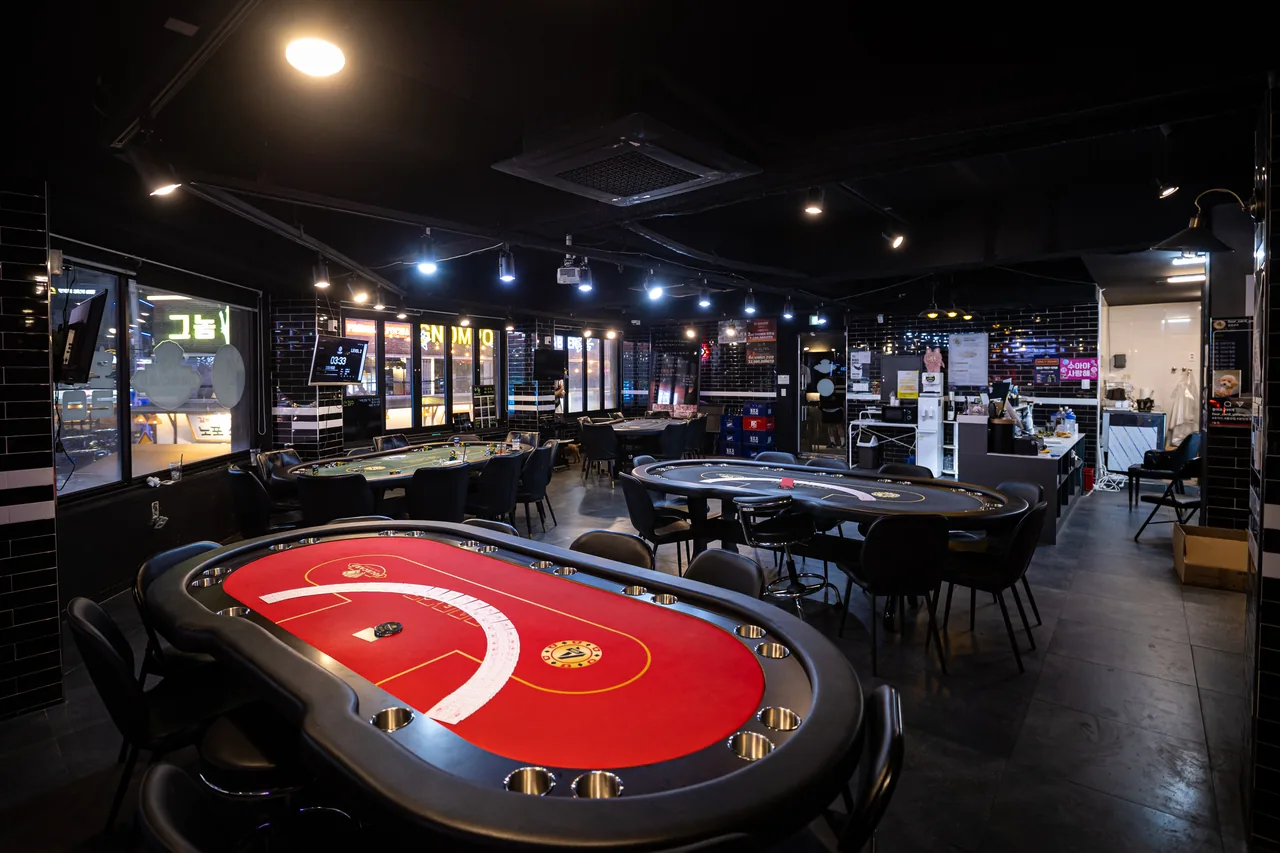
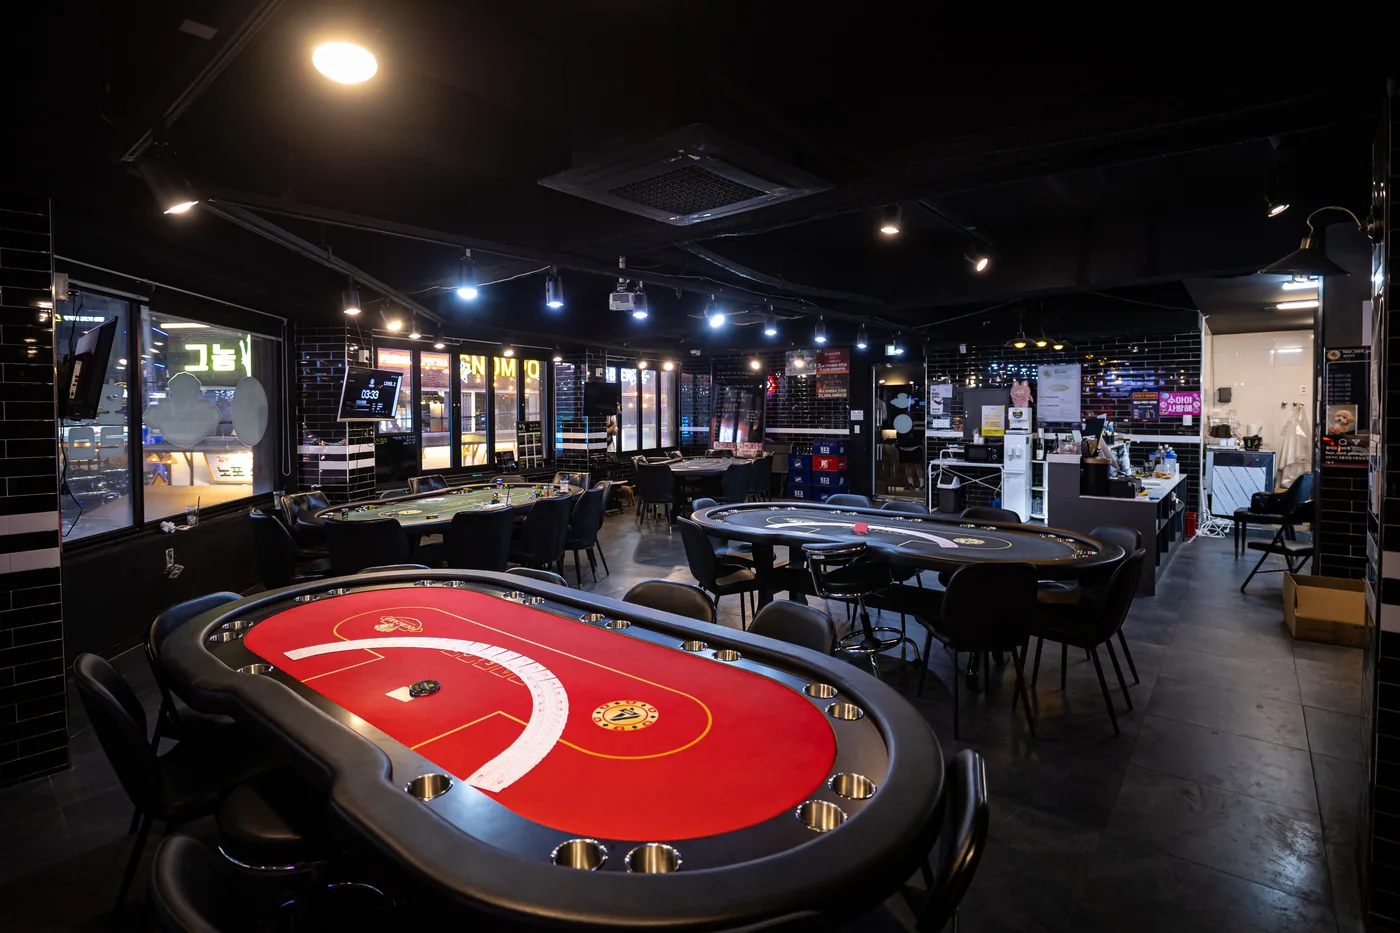
Optimize remaining content images with WebP and light JPEG fallbacks.

Changed region(s): [[0.3438, 0.5182, 0.375, 0.5487]]

diff --git a/index.html b/index.html
@@ -1682,7 +1682,7 @@
                 <div class="reveal">
                     <picture>
                         <source srcset="image/optimized/02.webp" type="image/webp">
-                        <img src="image/02.jpg" alt="포카드 홀덤펍 내부" class="w-full shadow-lg" loading="lazy" decoding="async">
+                        <img src="image/optimized/02.jpg" alt="포카드 홀덤펍 내부" class="w-full shadow-lg" loading="lazy" decoding="async">
                     </picture>
                 </div>
             </div>
@@ -1775,7 +1775,7 @@
                 <picture>
                     <source srcset="image/optimized/03.webp" type="image/webp">
                     <img
-                        src="image/03.jpg"
+                        src="image/optimized/03.jpg"
                         alt="포카드 홀덤펍 플레이"
                         class="brand-visual brand-visual-banner w-full"
                         loading="lazy"
@@ -1829,12 +1829,16 @@
             <div class="reveal competition-intro text-white p-8 md:p-12 mb-10 md:mb-12 shadow-lg overflow-hidden">
                 <div class="grid md:grid-cols-[1fr_1.2fr_0.9fr] gap-8 md:gap-10 items-center">
                     <div class="rounded-xl overflow-hidden border border-white/20 shadow-lg max-h-56 md:max-h-none">
-                        <img
-                            src="image/04.jpg"
-                            alt="토너먼트 대회 현장"
-                            class="brand-visual w-full h-full min-h-[200px] object-cover"
-                            loading="lazy"
-                        >
+                        <picture>
+                            <source srcset="image/optimized/04.webp" type="image/webp">
+                            <img
+                                src="image/optimized/04.jpg"
+                                alt="토너먼트 대회 현장"
+                                class="brand-visual w-full h-full min-h-[200px] object-cover"
+                                loading="lazy"
+                                decoding="async"
+                            >
+                        </picture>
                     </div>
                     <div>
                         <p class="section-eyebrow section-eyebrow--responsive section-eyebrow--gold font-semibold tracking-widest mb-3">METIS · 정기 페이아웃 대회</p>

diff --git a/scripts/optimize_images.py b/scripts/optimize_images.py
@@ -15,7 +15,15 @@ OPTIMIZED_DIR = IMAGE_DIR / "optimized"
 
 THUMB_WIDTH = 480
 DISPLAY_WIDTH = 1400
-CONTENT_WIDTH = 1280
+CONTENT_WIDTH = 1400
+JPEG_QUALITY = 85
+WEBP_QUALITY = 82
+
+
+def save_jpeg(img: Image.Image, path: Path, quality: int = JPEG_QUALITY) -> None:
+    path.parent.mkdir(parents=True, exist_ok=True)
+    rgb = img.convert("RGB") if img.mode not in ("RGB", "L") else img
+    rgb.save(path, "JPEG", quality=quality, optimize=True, progressive=True)
 
 
 def save_webp(img: Image.Image, path: Path, quality: int) -> None:
@@ -36,7 +44,7 @@ def optimize_gallery() -> None:
         img = Image.open(path)
         base = path.stem
         save_webp(resize_to_width(img, THUMB_WIDTH), THUMB_DIR / f"{base}.webp", 78)
-        save_webp(resize_to_width(img, DISPLAY_WIDTH), DISPLAY_DIR / f"{base}.webp", 82)
+        save_webp(resize_to_width(img, DISPLAY_WIDTH), DISPLAY_DIR / f"{base}.webp", WEBP_QUALITY)
         thumb_kb = (THUMB_DIR / f"{base}.webp").stat().st_size / 1024
         display_kb = (DISPLAY_DIR / f"{base}.webp").stat().st_size / 1024
         print(f"gallery {base}: thumb {thumb_kb:.0f}KB, display {display_kb:.0f}KB")
@@ -48,14 +56,17 @@ def optimize_content(name: str) -> None:
         return
     img = Image.open(path)
     stem = path.stem
-    save_webp(resize_to_width(img, CONTENT_WIDTH), OPTIMIZED_DIR / f"{stem}.webp", 82)
-    out_kb = (OPTIMIZED_DIR / f"{stem}.webp").stat().st_size / 1024
-    print(f"content {name}: {out_kb:.0f}KB")
+    resized = resize_to_width(img, CONTENT_WIDTH)
+    save_webp(resized, OPTIMIZED_DIR / f"{stem}.webp", WEBP_QUALITY)
+    save_jpeg(resized, OPTIMIZED_DIR / f"{stem}.jpg")
+    webp_kb = (OPTIMIZED_DIR / f"{stem}.webp").stat().st_size / 1024
+    jpg_kb = (OPTIMIZED_DIR / f"{stem}.jpg").stat().st_size / 1024
+    print(f"content {name}: webp {webp_kb:.0f}KB, jpg {jpg_kb:.0f}KB")
 
 
 def main() -> None:
     optimize_gallery()
-    for filename in ("02.jpg", "03.jpg"):
+    for filename in ("02.jpg", "03.jpg", "04.jpg"):
         optimize_content(filename)
     print("done")
 
